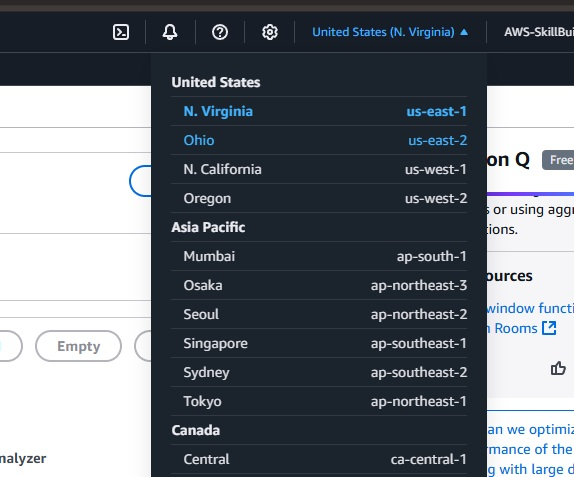
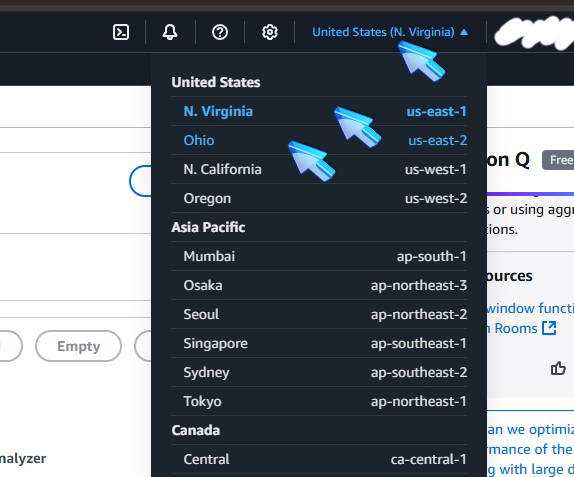
Add new S3 region image and update documentation for AWS region selection

diff --git a/thisisthelab.md b/thisisthelab.md
@@ -49,3 +49,13 @@
 
 ![S3 Console](./images/1a-S3inConsoleA.jpg)
 
+# 2.1 - Amazon S3
+
+###### ![Brazil](https://github.com/Acheroniano/flag-icon/blob/master/png/16/country-4x3/br.png "Brazil") 
+##### ** Escolha a Região na AWS para criar dois buckets **
+
+###### ![United States](https://github.com/Acheroniano/flag-icon/blob/master/png/16/country-4x3/us.png "United States") 
+##### ** Choose a AWS Region to create two buckets **
+
+![S3 AWS Region](./images/2a-S3Region.jpg)
+
